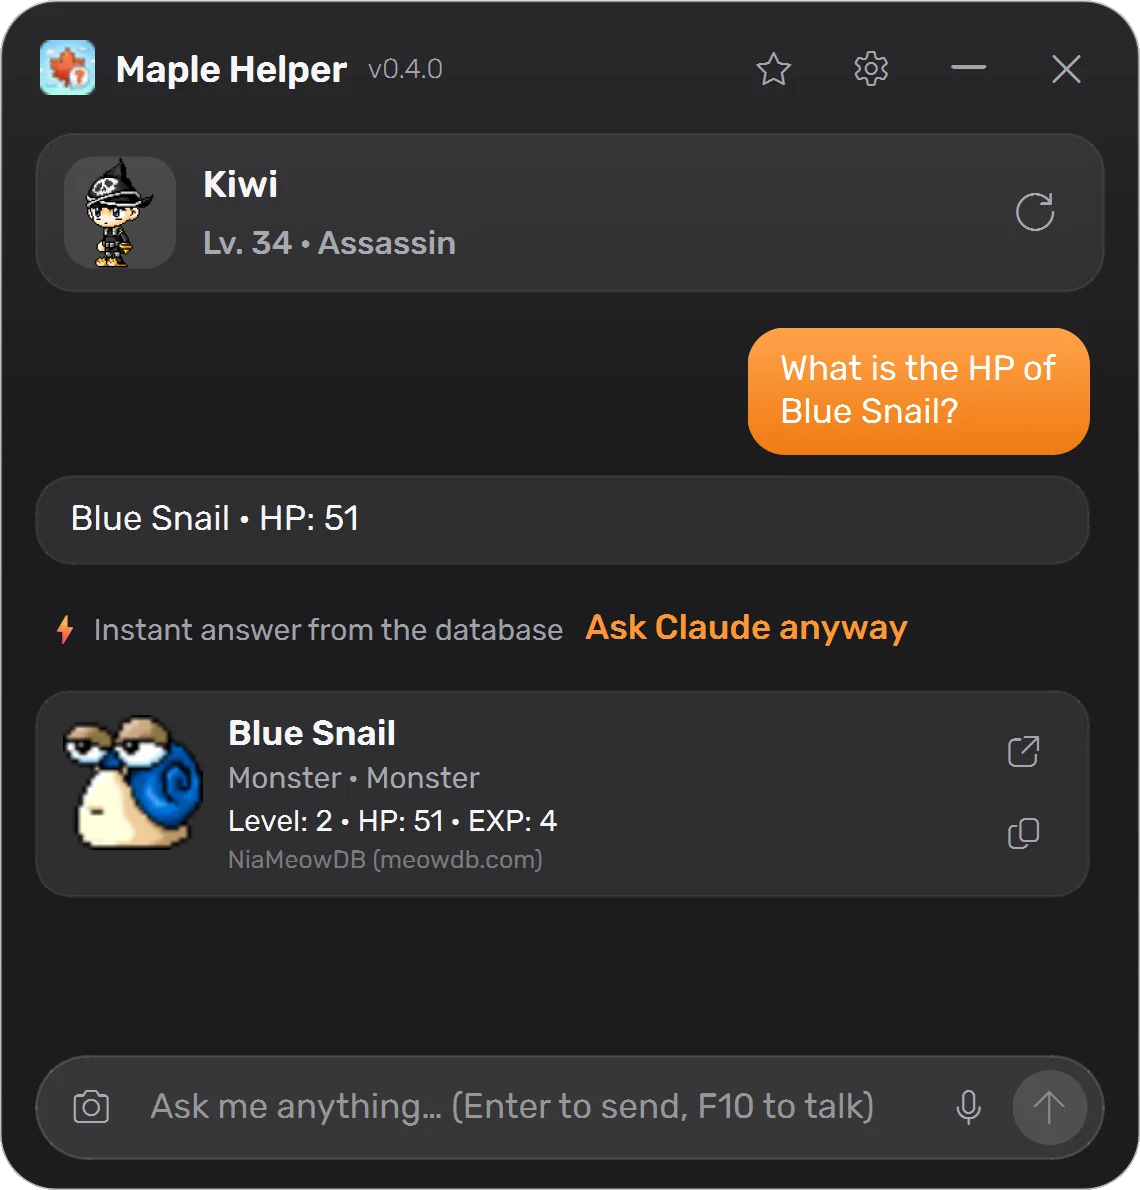
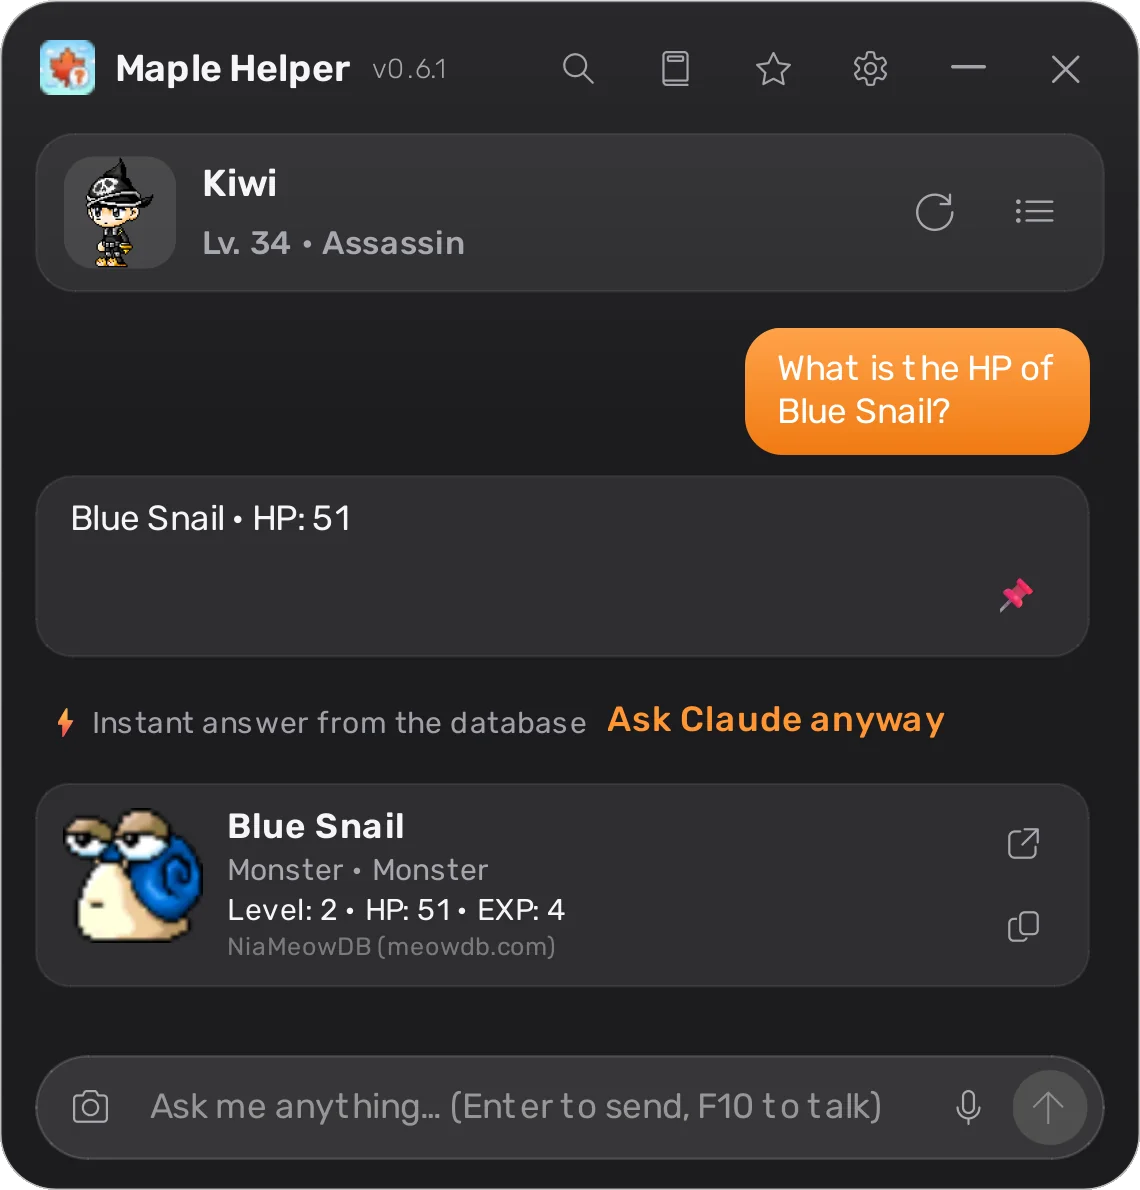
Site and README: fresh 0.6.1 screenshots, a guides section, screenshots in the README

diff --git a/index.html b/index.html
@@ -171,6 +171,7 @@
     <symbol id="i-image" viewBox="0 0 24 24"><g fill="none" stroke="currentColor" stroke-width="2" stroke-linecap="round" stroke-linejoin="round"><rect x="3" y="3" width="18" height="18" rx="3"/><circle cx="9" cy="9" r="2"/><path d="m21 15-4.6-4.6a1.5 1.5 0 0 0-2.1 0L5 20"/></g></symbol>
     <symbol id="i-star" viewBox="0 0 24 24"><path fill="none" stroke="currentColor" stroke-width="2" stroke-linejoin="round" d="m12 2.8 2.8 5.8 6.3.9-4.6 4.4 1.1 6.3L12 17.2l-5.6 3 1.1-6.3-4.6-4.4 6.3-.9z"/></symbol>
     <symbol id="i-notes" viewBox="0 0 24 24"><g fill="none" stroke="currentColor" stroke-width="2" stroke-linecap="round" stroke-linejoin="round"><path d="M14 2H6a2 2 0 0 0-2 2v16a2 2 0 0 0 2 2h12a2 2 0 0 0 2-2V8z"/><path d="M14 2v6h6M8 13h8M8 17h5"/></g></symbol>
+    <symbol id="i-book" viewBox="0 0 24 24"><g fill="none" stroke="currentColor" stroke-width="2" stroke-linecap="round" stroke-linejoin="round"><path d="M4 19.5A2.5 2.5 0 0 1 6.5 17H20V3H6.5A2.5 2.5 0 0 0 4 5.5z"/><path d="M4 19.5A2.5 2.5 0 0 0 6.5 22H20v-5"/></g></symbol>
     <symbol id="i-user" viewBox="0 0 24 24"><g fill="none" stroke="currentColor" stroke-width="2" stroke-linecap="round"><circle cx="12" cy="8" r="4"/><path d="M4 21v-1a6 6 0 0 1 6-6h4a6 6 0 0 1 6 6v1"/></g></symbol>
     <symbol id="i-mic" viewBox="0 0 24 24"><g fill="none" stroke="currentColor" stroke-width="2" stroke-linecap="round"><rect x="9" y="2" width="6" height="12" rx="3"/><path d="M19 10v2a7 7 0 0 1-14 0v-2M12 19v3"/></g></symbol>
     <symbol id="i-lang" viewBox="0 0 24 24"><g fill="none" stroke="currentColor" stroke-width="2" stroke-linecap="round" stroke-linejoin="round"><path d="m5 8 6 6M4 14l6-6 2-3M2 5h12M7 2h1M22 22l-5-10-5 10M14 18h6"/></g></symbol>
@@ -342,6 +343,21 @@
               <source media="(prefers-color-scheme: dark)" srcset="assets/shots/settings-dark.webp">
               <img src="assets/shots/settings-light.webp" width="1190" height="1740" loading="lazy" decoding="async"
                    alt="מסך ההגדרות בעברית: מראה בהיר או כהה, גודל גופן, שפה, מקש פתיחה F9 ומקש דיבור F10">
+            </picture>
+          </div>
+        </article>
+
+        <article class="tile wide split glass reveal">
+          <div>
+            <h3><span class="ico"><svg aria-hidden="true"><use href="#i-book"/></svg></span>32 מדריכים, בעברית ועם תמונות</h3>
+            <p>מדריכים לכל מקצוע, מפות גרינד, טבלת <bdi dir="ltr">EXP</bdi>, נוסחת הנזק ועוד. כולם מתורגמים לעברית, עם אייקונים של סקילים ופריטים, דמויות, טבלאות וטיפים.</p>
+            <p>המדריכים שמתאימים לדמות שלכם מופיעים ראשונים, וכפתור אחד שולח שאלה על המדריך לצ'אט.</p>
+          </div>
+          <div class="shot crop">
+            <picture>
+              <source media="(prefers-color-scheme: dark)" srcset="assets/shots/guide-dark.webp">
+              <img src="assets/shots/guide-light.webp" width="1190" height="1840" loading="lazy" decoding="async"
+                   alt="מדריך ה-Warrior בעברית בתוך האפליקציה: תמונת הדמות, יתרונות וחסרונות, וקופסת נוסחה">
             </picture>
           </div>
         </article>

diff --git a/en/index.html b/en/index.html
@@ -171,6 +171,7 @@
     <symbol id="i-image" viewBox="0 0 24 24"><g fill="none" stroke="currentColor" stroke-width="2" stroke-linecap="round" stroke-linejoin="round"><rect x="3" y="3" width="18" height="18" rx="3"/><circle cx="9" cy="9" r="2"/><path d="m21 15-4.6-4.6a1.5 1.5 0 0 0-2.1 0L5 20"/></g></symbol>
     <symbol id="i-star" viewBox="0 0 24 24"><path fill="none" stroke="currentColor" stroke-width="2" stroke-linejoin="round" d="m12 2.8 2.8 5.8 6.3.9-4.6 4.4 1.1 6.3L12 17.2l-5.6 3 1.1-6.3-4.6-4.4 6.3-.9z"/></symbol>
     <symbol id="i-notes" viewBox="0 0 24 24"><g fill="none" stroke="currentColor" stroke-width="2" stroke-linecap="round" stroke-linejoin="round"><path d="M14 2H6a2 2 0 0 0-2 2v16a2 2 0 0 0 2 2h12a2 2 0 0 0 2-2V8z"/><path d="M14 2v6h6M8 13h8M8 17h5"/></g></symbol>
+    <symbol id="i-book" viewBox="0 0 24 24"><g fill="none" stroke="currentColor" stroke-width="2" stroke-linecap="round" stroke-linejoin="round"><path d="M4 19.5A2.5 2.5 0 0 1 6.5 17H20V3H6.5A2.5 2.5 0 0 0 4 5.5z"/><path d="M4 19.5A2.5 2.5 0 0 0 6.5 22H20v-5"/></g></symbol>
     <symbol id="i-user" viewBox="0 0 24 24"><g fill="none" stroke="currentColor" stroke-width="2" stroke-linecap="round"><circle cx="12" cy="8" r="4"/><path d="M4 21v-1a6 6 0 0 1 6-6h4a6 6 0 0 1 6 6v1"/></g></symbol>
     <symbol id="i-mic" viewBox="0 0 24 24"><g fill="none" stroke="currentColor" stroke-width="2" stroke-linecap="round"><rect x="9" y="2" width="6" height="12" rx="3"/><path d="M19 10v2a7 7 0 0 1-14 0v-2M12 19v3"/></g></symbol>
     <symbol id="i-lang" viewBox="0 0 24 24"><g fill="none" stroke="currentColor" stroke-width="2" stroke-linecap="round" stroke-linejoin="round"><path d="m5 8 6 6M4 14l6-6 2-3M2 5h12M7 2h1M22 22l-5-10-5 10M14 18h6"/></g></symbol>
@@ -342,6 +343,21 @@
               <source media="(prefers-color-scheme: dark)" srcset="../assets/shots/en/settings-dark.webp">
               <img src="../assets/shots/en/settings-light.webp" width="1190" height="1740" loading="lazy" decoding="async"
                    alt="The settings window: light or dark appearance, font size, English or Hebrew, the F9 open/close key and the F10 talk key">
+            </picture>
+          </div>
+        </article>
+
+        <article class="tile wide split glass reveal">
+          <div>
+            <h3><span class="ico"><svg aria-hidden="true"><use href="#i-book"/></svg></span>32 guides, with pictures</h3>
+            <p>Guides for every class, grind maps, the EXP table, the damage formula and more, with skill and item icons, character art, tables and tips. In Hebrew too.</p>
+            <p>The guides that fit your character come first, and one button sends a question about the guide to the chat.</p>
+          </div>
+          <div class="shot crop">
+            <picture>
+              <source media="(prefers-color-scheme: dark)" srcset="../assets/shots/en/guide-dark.webp">
+              <img src="../assets/shots/en/guide-light.webp" width="1190" height="1840" loading="lazy" decoding="async"
+                   alt="The Warrior guide inside the app: the class art, pros and cons, and a formula box">
             </picture>
           </div>
         </article>
